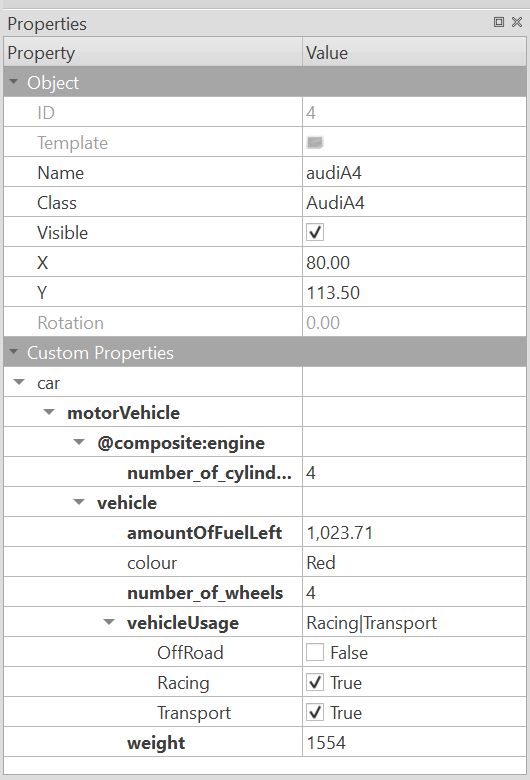
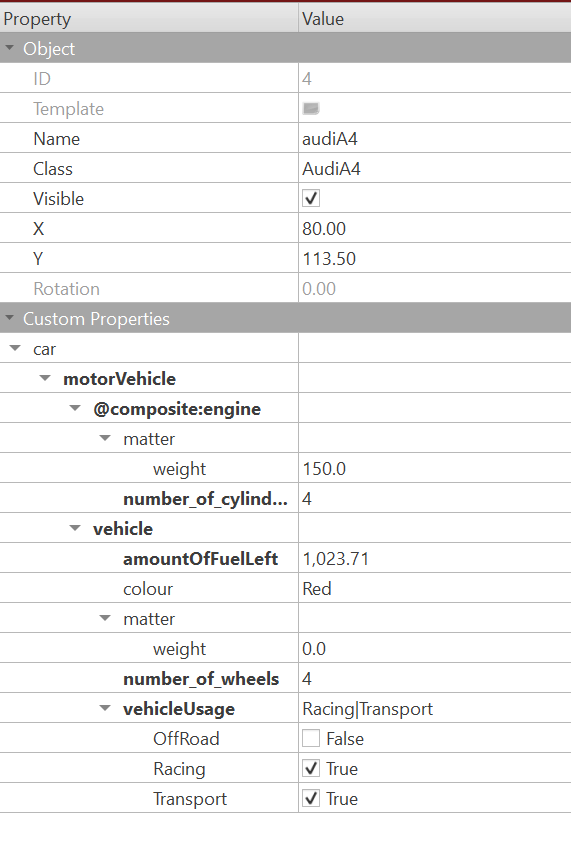
change: Update README

diff --git a/dist/index.js b/dist/index.js
@@ -71,8 +71,6 @@ else {
     const projectParsedResult = parseProjectFile(projectFilePath);
     // Then, parse the map file, referencing the project parsed result.
     const mapParsedResult = parseMapFile(mapFilePath, projectParsedResult);
-    console.log(mapParsedResult.getLayerIdToPropertiesMap());
-    console.log(mapParsedResult.getObjectIdToPropertiesMap());
     // Write the parsed result to the output file.
     fs.writeFileSync(outputFile, mapParsedResult.toJson());
     console.log('Done!');

diff --git a/README.md b/README.md
@@ -2,23 +2,31 @@
 
 This package provides an easy way to parse information from the Tiled project file and the Tiled map files.
 
+## Problem
+
 In the Tiled program, data is saved separately:
 - The project file contains information about custom types as defined in the Custom Types Editor, which may compose other custom types within them.
 - The map file contains information about the map itself, including the layers, tilesets, and objects, which may be of the custom types defined in the project file.
 
-The problem arises when you want to use the custom types in your game engine, such as within _Phaser_. You will need to parse the project file to get the properties about the custom types, and then parse the map file to get the properties about the map.
+The problem arises when you want to use the custom types in your game engine, such as within _Phaser_.
+_Phaser_ provides no easy way to read the project files, so you will need to parse both project and map files manually.
 
-In addition, types refer to each other via name, so resolving the references, then overwritting the properties with the new properties defined on each object is also a problem.
+Here is an example of an object with custom properties of a custom type defined in the project file:
+![Custom Properties Example](images/custom-properties-example.png)
+
+In addition, types refer to each other via name, so resolving the references and overwritting the properties with the new properties defined on each object is a difficult task.
+
+Lastly, Tiled does not provide a way to extend custom types. To retrieve a property from an object, one go through several nested properties, such as `audiA4.properties.car.motorVehicle.vehicle.amountofFuelLeft`. This is not ideal, as it is not intuitive to use, and it is not easy to refactor.
+
+## Solution
 
 This package solves these problems by providing a way to parse the project file and map file, and then resolve the references between the two. The output is a single object that contains all the information about the map, including the custom type properties of each object flattened into its own properties - as if the properties were declared on the object itself.
 
 This is accomplished by mimicking the concept of inheritance in Tiled custom types - custom type A is defined to inherit another custom type B if custom type A has a member of type B. This is done recursively until the base type is reached. The properties of the base type are then copied into the properties of the derived type, and the properties of the derived type overwrite the properties of the base type.
 
-Composition is also possible, by blocking the flattened properties of the base type from being copied into the derived type. This is done by defining a member of type B in custom type A with the prefix `@composite:`. Then, the member of type B remains a nested property of type A, but the nested properties of member B can still be flattened.
+Composition is also possible, by blocking the flattened properties of the base type from being copied into the derived type. This is done by defining a member of type B in custom type A with the prefix `@composite:`. Then, the member of type B remains a nested property of type A, but the nested properties of member B can still be flattened. To better understand this feature, read the section on [Declaring composite properties](#declaring-composite-properties).
 
 With this package, you can directly access the expected property via `.<PROPERTY_NAME>`, as if the property was directly declared on the object itself.
-
-![Custom Properties Example](images/custom-properties-example.png)
 
 In the above example, one can access the `amountOfFuelLeft` property of the `audiA4` object by simply accessing `audiA4.amountOfFuelLeft`.
 
@@ -78,3 +86,10 @@ In addition, enums are also supported. Enums are defined in the project file, an
 Sometimes, it is desirable to maintain the nested properties of a custom type, instead of flattening them, such as one object possess two members of the same types. This is possible by declaring a member of type B in custom type A with the prefix `@composite:`. Then, the member of type B remains a nested property of type A, but the nested properties of member B can still be flattened.
 
 Here is an example - this Boeing737 has 2 engines. Each engine is declared as a composite property. Therefore, the members of type `Engine` are not flattened, but the nested properties of each engine are flattened.
+
+![Composite Properties of Boeing737](images/composite-properties-example.png)
+
+When the properties are parsed and flattened, we get the following result:
+![Parsed Result of Boeing737](images/parsed-result-of-boeing737.png)
+
+Note that all properties were flattened, except for the two engine marked with `@composite:`. However, as both engines extended from the the Matter class, the properties of the Matter parent class were flattened into each engine class.
